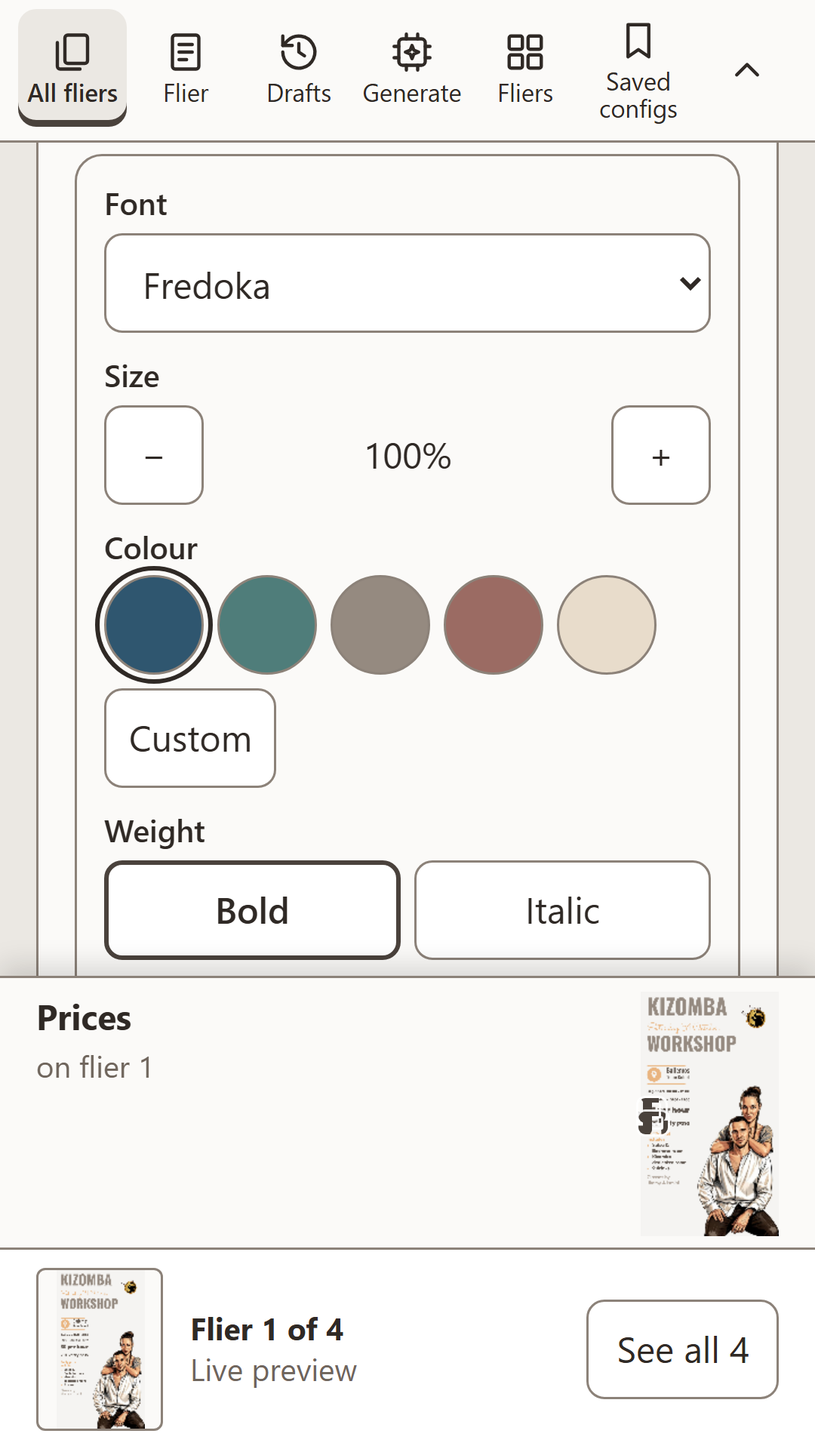
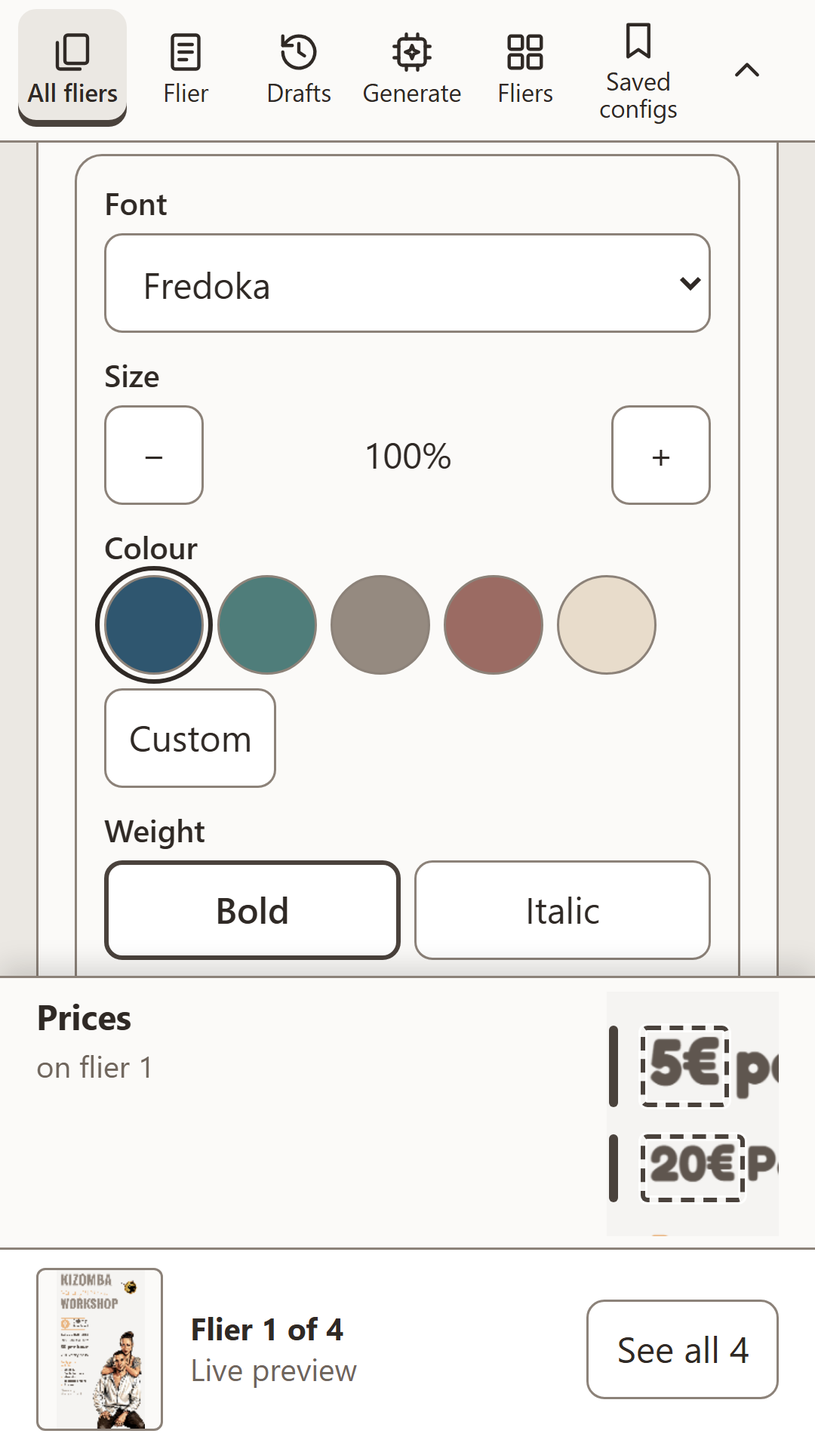
docs(FLIER-2 "Flier Studio follow-ups"): D34 round 3 for AC-44 "Fonts by text role" + AC-45 "Highlight on hover/focus": A peek crops to the outlined text, B and C withdrawn after critic r2

Changed region(s): [[0.7333, 0.6875, 0.9778, 0.875]]

diff --git a/docs/design/FLIER-2-AC44-45/index.html b/docs/design/FLIER-2-AC44-45/index.html
@@ -117,30 +117,32 @@ td, th { border-top: 1px solid var(--line); padding: 6px 8px; text-align: left; 
 </head>
 <body>
 <main>
-<p class="banner" data-testid="critic-banner">Critic pending &mdash; do not pick</p>
 <h1>FLIER-2 "Flier Studio follow-ups": Fonts by text role (AC-44) and highlight on hover/focus (AC-45)</h1>
 <p class="meta">Live build live with each option added to the real All fliers card and outlines drawn from the real flier renders (<code>fonts.ts</code>). Galaxy S5 360x640 and Desktop Chrome 1280x800, light and dark; fresh visitor, default Kizomba preset, 4 fliers. Before and after use the same steps and anchors.</p>
 <p>Highlight (AC-45), same in all three: pointing at or keyboard-focusing any role control outlines that text on every flier with a 2 px dashed accent box (4 px padding, light halo) and a slim accent bar in the poster&rsquo;s left margin; no tag sits on the poster, the role name is the control you are on. Leaving clears it. On a phone the fliers are off screen, so a tap docks a 120 px strip above the flier bar for 2 s: role name on the left, flier 1 with the outline on the right. Outlines sit over the preview only, never in a PNG; the same outline is wired to the per-field Style controls (AC-40) when option B ships. Matching is by role: each drawn line is keyed to the flier field it comes from (title, venue.n, schedule.n.label/time, prices.n.amount/label, includes, footer), whole line, case-sensitive; 0 lines claimed by two roles in every frame (result.json <code>conflicts</code>). The build reads per-role boxes from poster-render (a <code>lineBoxes</code> keyed by line, added to the render report), not text.</p>
 <p>All three keep the Fonts picker (now the starting typefaces) and every other row of the card where it is; the editor is the AC-40 Style panel minus "Apply to" (always every flier here), with "A flier&rsquo;s own Style still wins."</p>
 <article data-option="A" data-inventory="41/41" data-aligned="pass" data-result="result.json">
 <h2>A &middot; Role list, open one</h2>
-<p class="meta"><b>Inventory:</b> 41/41 &middot; new items shown 3/3 &middot; aligned: pass &middot; text fit: pass &middot; 44 px targets &middot; no sideways scroll &middot; outline boxes seen in 8 of 8 highlight frames</p>
+<p class="meta"><b>Inventory:</b> 41/41 &middot; new items shown 3/3 &middot; aligned: pass &middot; text fit: pass &middot; 44 px targets &middot; no sideways scroll &middot; outline boxes seen in 8 of 8 highlight frames &middot; design-critic r2 PASS 4.13</p>
+<p><b>Inventory:</b> 41/41</p>
 <p>Under the Fonts picker, a "Text roles" list: 11 rows (Title ... Footer), each showing its current face and size. Tapping a row opens the same editor as the per-field Style panel (AC-40) right under it: Font, Size stepper, Colour swatches + Custom, Bold / Italic, Letter spacing, Reset to theme. One open at a time.</p>
 <p><b>Initial focus:</b> unchanged (the card opens where it does today); opening a role moves focus to its Font control.</p>
 <h3>Highlight: hover and open (1280 and 360, light and dark)</h3>
 <div class="states"><figure class="solo"><img src="A-1280-light-hover.png" alt="Option A at 1280 light: Pointing at Title: every title outlined" loading="lazy"><figcaption>A, 1280 light: Pointing at Title: every title outlined</figcaption></figure><figure class="solo"><img src="A-360-light-hover.png" alt="Option A at 360 light: Pointing at Title: every title outlined" loading="lazy"><figcaption>A, 360 light: Pointing at Title: every title outlined</figcaption></figure><figure class="solo"><img src="A-1280-dark-hover.png" alt="Option A at 1280 dark: Pointing at Title: every title outlined" loading="lazy"><figcaption>A, 1280 dark: Pointing at Title: every title outlined</figcaption></figure><figure class="solo"><img src="A-360-dark-hover.png" alt="Option A at 360 dark: Pointing at Title: every title outlined" loading="lazy"><figcaption>A, 360 dark: Pointing at Title: every title outlined</figcaption></figure><figure class="solo"><img src="A-1280-light-open.png" alt="Option A at 1280 light: Prices editor open, prices outlined" loading="lazy"><figcaption>A, 1280 light: Prices editor open, prices outlined</figcaption></figure><figure class="solo"><img src="A-360-light-open.png" alt="Option A at 360 light: Prices editor open, prices outlined" loading="lazy"><figcaption>A, 360 light: Prices editor open, prices outlined</figcaption></figure><figure class="solo"><img src="A-1280-dark-open.png" alt="Option A at 1280 dark: Prices editor open, prices outlined" loading="lazy"><figcaption>A, 1280 dark: Prices editor open, prices outlined</figcaption></figure><figure class="solo"><img src="A-360-dark-open.png" alt="Option A at 360 dark: Prices editor open, prices outlined" loading="lazy"><figcaption>A, 360 dark: Prices editor open, prices outlined</figcaption></figure></div>
 <h3>Fonts row and what follows it</h3><div class="pair"><figure data-visual="before"><img src="before-1280-light-fonts.png" alt="Before at 1280 light: Fonts row and what follows it" loading="lazy"><figcaption>Before (live), 1280 light</figcaption></figure><figure data-visual="after"><img src="A-1280-light-fonts.png" alt="Option A at 1280 light: Fonts row and what follows it" loading="lazy"><figcaption>After A, 1280 light</figcaption></figure></div><h3>Fonts row at 360</h3><div class="pair phone"><figure data-visual="before"><img src="before-360-light-fonts.png" alt="Before at 360 light: Fonts row at 360" loading="lazy"><figcaption>Before (live), 360 light</figcaption></figure><figure data-visual="after"><img src="A-360-light-fonts.png" alt="Option A at 360 light: Fonts row at 360" loading="lazy"><figcaption>After A, 360 light</figcaption></figure></div><h3>Top of the All fliers card</h3><div class="pair"><figure data-visual="before"><img src="before-1280-light-card.png" alt="Before at 1280 light: Top of the All fliers card" loading="lazy"><figcaption>Before (live), 1280 light</figcaption></figure><figure data-visual="after"><img src="A-1280-light-card.png" alt="Option A at 1280 light: Top of the All fliers card" loading="lazy"><figcaption>After A, 1280 light</figcaption></figure></div><h3>Top of the card at 360</h3><div class="pair phone"><figure data-visual="before"><img src="before-360-light-card.png" alt="Before at 360 light: Top of the card at 360" loading="lazy"><figcaption>Before (live), 360 light</figcaption></figure><figure data-visual="after"><img src="A-360-light-card.png" alt="Option A at 360 light: Top of the card at 360" loading="lazy"><figcaption>After A, 360 light</figcaption></figure></div><h3>End of the card: Replace text, Add flier</h3><div class="pair"><figure data-visual="before"><img src="before-1280-light-card-end.png" alt="Before at 1280 light: End of the card: Replace text, Add flier" loading="lazy"><figcaption>Before (live), 1280 light</figcaption></figure><figure data-visual="after"><img src="A-1280-light-card-end.png" alt="Option A at 1280 light: End of the card: Replace text, Add flier" loading="lazy"><figcaption>After A, 1280 light</figcaption></figure></div><h3>End of the card at 360</h3><div class="pair phone"><figure data-visual="before"><img src="before-360-light-card-end.png" alt="Before at 360 light: End of the card at 360" loading="lazy"><figcaption>Before (live), 360 light</figcaption></figure><figure data-visual="after"><img src="A-360-light-card-end.png" alt="Option A at 360 light: End of the card at 360" loading="lazy"><figcaption>After A, 360 light</figcaption></figure></div><h3>Replace text with "Kizomba" typed: count, ticked list, Apply</h3><div class="pair"><figure data-visual="before"><img src="before-1280-light-card-end-typed.png" alt="Before at 1280 light: Replace text with "Kizomba" typed: count, ticked list, Apply" loading="lazy"><figcaption>Before (live), 1280 light</figcaption></figure><figure data-visual="after"><img src="A-1280-light-card-end-typed.png" alt="Option A at 1280 light: Replace text with "Kizomba" typed: count, ticked list, Apply" loading="lazy"><figcaption>After A, 1280 light</figcaption></figure></div><h3>Replace text typed at 360</h3><div class="pair phone"><figure data-visual="before"><img src="before-360-light-card-end-typed.png" alt="Before at 360 light: Replace text typed at 360" loading="lazy"><figcaption>Before (live), 360 light</figcaption></figure><figure data-visual="after"><img src="A-360-light-card-end-typed.png" alt="Option A at 360 light: Replace text typed at 360" loading="lazy"><figcaption>After A, 360 light</figcaption></figure></div><h3>All fliers card folded</h3><div class="pair"><figure data-visual="before"><img src="before-1280-light-card-folded.png" alt="Before at 1280 light: All fliers card folded" loading="lazy"><figcaption>Before (live), 1280 light</figcaption></figure><figure data-visual="after"><img src="A-1280-light-card-folded.png" alt="Option A at 1280 light: All fliers card folded" loading="lazy"><figcaption>After A, 1280 light</figcaption></figure></div><h3>Card folded at 360</h3><div class="pair phone"><figure data-visual="before"><img src="before-360-light-card-folded.png" alt="Before at 360 light: Card folded at 360" loading="lazy"><figcaption>Before (live), 360 light</figcaption></figure><figure data-visual="after"><img src="A-360-light-card-folded.png" alt="Option A at 360 light: Card folded at 360" loading="lazy"><figcaption>After A, 360 light</figcaption></figure></div><h3>The fliers</h3><div class="pair"><figure data-visual="before"><img src="before-1280-light-fliers.png" alt="Before at 1280 light: The fliers" loading="lazy"><figcaption>Before (live), 1280 light</figcaption></figure><figure data-visual="after"><img src="A-1280-light-fliers.png" alt="Option A at 1280 light: The fliers" loading="lazy"><figcaption>After A, 1280 light</figcaption></figure></div><h3>Dark, Fonts row</h3><div class="pair"><figure data-visual="before"><img src="before-1280-dark-fonts.png" alt="Before at 1280 dark: Dark, Fonts row" loading="lazy"><figcaption>Before (live), 1280 dark</figcaption></figure><figure data-visual="after"><img src="A-1280-dark-fonts.png" alt="Option A at 1280 dark: Dark, Fonts row" loading="lazy"><figcaption>After A, 1280 dark</figcaption></figure></div><h3>Dark, Fonts row at 360</h3><div class="pair phone"><figure data-visual="before"><img src="before-360-dark-fonts.png" alt="Before at 360 dark: Dark, Fonts row at 360" loading="lazy"><figcaption>Before (live), 360 dark</figcaption></figure><figure data-visual="after"><img src="A-360-dark-fonts.png" alt="Option A at 360 dark: Dark, Fonts row at 360" loading="lazy"><figcaption>After A, 360 dark</figcaption></figure></div>
-</article><article data-option="B" data-inventory="41/41" data-aligned="pass" data-result="result.json">
+</article><article class="withdrawn" data-option="B" data-inventory="41/41" data-aligned="pass" data-result="result.json">
 <h2>B &middot; Role chips, one editor</h2>
-<p class="meta"><b>Inventory:</b> 41/41 &middot; new items shown 3/3 &middot; aligned: pass &middot; text fit: pass &middot; 44 px targets &middot; no sideways scroll &middot; outline boxes seen in 8 of 8 highlight frames</p>
+<p class="verdict">Withdrawn, not pickable: design-critic r2 REDO 3.88. The chips wrap to 5 rows at 360 and break the AC-40 row pattern.</p>
+<p><b>Inventory:</b> 41/41</p>
 <p>Under the Fonts picker, the 11 roles as chips that wrap; the pressed chip drives one editor below (same controls as the Style panel, headed "Title, every flier"). Shortest card; the editor never moves.</p>
 <p><b>Initial focus:</b> unchanged (the card opens where it does today); opening a role moves focus to its Font control.</p>
 <h3>Highlight: hover and open (1280 and 360, light and dark)</h3>
 <div class="states"><figure class="solo"><img src="B-1280-light-hover.png" alt="Option B at 1280 light: Pointing at Title: every title outlined" loading="lazy"><figcaption>B, 1280 light: Pointing at Title: every title outlined</figcaption></figure><figure class="solo"><img src="B-360-light-hover.png" alt="Option B at 360 light: Pointing at Title: every title outlined" loading="lazy"><figcaption>B, 360 light: Pointing at Title: every title outlined</figcaption></figure><figure class="solo"><img src="B-1280-dark-hover.png" alt="Option B at 1280 dark: Pointing at Title: every title outlined" loading="lazy"><figcaption>B, 1280 dark: Pointing at Title: every title outlined</figcaption></figure><figure class="solo"><img src="B-360-dark-hover.png" alt="Option B at 360 dark: Pointing at Title: every title outlined" loading="lazy"><figcaption>B, 360 dark: Pointing at Title: every title outlined</figcaption></figure><figure class="solo"><img src="B-1280-light-open.png" alt="Option B at 1280 light: Prices editor open, prices outlined" loading="lazy"><figcaption>B, 1280 light: Prices editor open, prices outlined</figcaption></figure><figure class="solo"><img src="B-360-light-open.png" alt="Option B at 360 light: Prices editor open, prices outlined" loading="lazy"><figcaption>B, 360 light: Prices editor open, prices outlined</figcaption></figure><figure class="solo"><img src="B-1280-dark-open.png" alt="Option B at 1280 dark: Prices editor open, prices outlined" loading="lazy"><figcaption>B, 1280 dark: Prices editor open, prices outlined</figcaption></figure><figure class="solo"><img src="B-360-dark-open.png" alt="Option B at 360 dark: Prices editor open, prices outlined" loading="lazy"><figcaption>B, 360 dark: Prices editor open, prices outlined</figcaption></figure></div>
 <h3>Fonts row and what follows it</h3><div class="pair"><figure data-visual="before"><img src="before-1280-light-fonts.png" alt="Before at 1280 light: Fonts row and what follows it" loading="lazy"><figcaption>Before (live), 1280 light</figcaption></figure><figure data-visual="after"><img src="B-1280-light-fonts.png" alt="Option B at 1280 light: Fonts row and what follows it" loading="lazy"><figcaption>After B, 1280 light</figcaption></figure></div><h3>Fonts row at 360</h3><div class="pair phone"><figure data-visual="before"><img src="before-360-light-fonts.png" alt="Before at 360 light: Fonts row at 360" loading="lazy"><figcaption>Before (live), 360 light</figcaption></figure><figure data-visual="after"><img src="B-360-light-fonts.png" alt="Option B at 360 light: Fonts row at 360" loading="lazy"><figcaption>After B, 360 light</figcaption></figure></div><h3>Top of the All fliers card</h3><div class="pair"><figure data-visual="before"><img src="before-1280-light-card.png" alt="Before at 1280 light: Top of the All fliers card" loading="lazy"><figcaption>Before (live), 1280 light</figcaption></figure><figure data-visual="after"><img src="B-1280-light-card.png" alt="Option B at 1280 light: Top of the All fliers card" loading="lazy"><figcaption>After B, 1280 light</figcaption></figure></div><h3>Top of the card at 360</h3><div class="pair phone"><figure data-visual="before"><img src="before-360-light-card.png" alt="Before at 360 light: Top of the card at 360" loading="lazy"><figcaption>Before (live), 360 light</figcaption></figure><figure data-visual="after"><img src="B-360-light-card.png" alt="Option B at 360 light: Top of the card at 360" loading="lazy"><figcaption>After B, 360 light</figcaption></figure></div><h3>End of the card: Replace text, Add flier</h3><div class="pair"><figure data-visual="before"><img src="before-1280-light-card-end.png" alt="Before at 1280 light: End of the card: Replace text, Add flier" loading="lazy"><figcaption>Before (live), 1280 light</figcaption></figure><figure data-visual="after"><img src="B-1280-light-card-end.png" alt="Option B at 1280 light: End of the card: Replace text, Add flier" loading="lazy"><figcaption>After B, 1280 light</figcaption></figure></div><h3>End of the card at 360</h3><div class="pair phone"><figure data-visual="before"><img src="before-360-light-card-end.png" alt="Before at 360 light: End of the card at 360" loading="lazy"><figcaption>Before (live), 360 light</figcaption></figure><figure data-visual="after"><img src="B-360-light-card-end.png" alt="Option B at 360 light: End of the card at 360" loading="lazy"><figcaption>After B, 360 light</figcaption></figure></div><h3>Replace text with "Kizomba" typed: count, ticked list, Apply</h3><div class="pair"><figure data-visual="before"><img src="before-1280-light-card-end-typed.png" alt="Before at 1280 light: Replace text with "Kizomba" typed: count, ticked list, Apply" loading="lazy"><figcaption>Before (live), 1280 light</figcaption></figure><figure data-visual="after"><img src="B-1280-light-card-end-typed.png" alt="Option B at 1280 light: Replace text with "Kizomba" typed: count, ticked list, Apply" loading="lazy"><figcaption>After B, 1280 light</figcaption></figure></div><h3>Replace text typed at 360</h3><div class="pair phone"><figure data-visual="before"><img src="before-360-light-card-end-typed.png" alt="Before at 360 light: Replace text typed at 360" loading="lazy"><figcaption>Before (live), 360 light</figcaption></figure><figure data-visual="after"><img src="B-360-light-card-end-typed.png" alt="Option B at 360 light: Replace text typed at 360" loading="lazy"><figcaption>After B, 360 light</figcaption></figure></div><h3>All fliers card folded</h3><div class="pair"><figure data-visual="before"><img src="before-1280-light-card-folded.png" alt="Before at 1280 light: All fliers card folded" loading="lazy"><figcaption>Before (live), 1280 light</figcaption></figure><figure data-visual="after"><img src="B-1280-light-card-folded.png" alt="Option B at 1280 light: All fliers card folded" loading="lazy"><figcaption>After B, 1280 light</figcaption></figure></div><h3>Card folded at 360</h3><div class="pair phone"><figure data-visual="before"><img src="before-360-light-card-folded.png" alt="Before at 360 light: Card folded at 360" loading="lazy"><figcaption>Before (live), 360 light</figcaption></figure><figure data-visual="after"><img src="B-360-light-card-folded.png" alt="Option B at 360 light: Card folded at 360" loading="lazy"><figcaption>After B, 360 light</figcaption></figure></div><h3>The fliers</h3><div class="pair"><figure data-visual="before"><img src="before-1280-light-fliers.png" alt="Before at 1280 light: The fliers" loading="lazy"><figcaption>Before (live), 1280 light</figcaption></figure><figure data-visual="after"><img src="B-1280-light-fliers.png" alt="Option B at 1280 light: The fliers" loading="lazy"><figcaption>After B, 1280 light</figcaption></figure></div><h3>Dark, Fonts row</h3><div class="pair"><figure data-visual="before"><img src="before-1280-dark-fonts.png" alt="Before at 1280 dark: Dark, Fonts row" loading="lazy"><figcaption>Before (live), 1280 dark</figcaption></figure><figure data-visual="after"><img src="B-1280-dark-fonts.png" alt="Option B at 1280 dark: Dark, Fonts row" loading="lazy"><figcaption>After B, 1280 dark</figcaption></figure></div><h3>Dark, Fonts row at 360</h3><div class="pair phone"><figure data-visual="before"><img src="before-360-dark-fonts.png" alt="Before at 360 dark: Dark, Fonts row at 360" loading="lazy"><figcaption>Before (live), 360 dark</figcaption></figure><figure data-visual="after"><img src="B-360-dark-fonts.png" alt="Option B at 360 dark: Dark, Fonts row at 360" loading="lazy"><figcaption>After B, 360 dark</figcaption></figure></div>
-</article><article data-option="C" data-inventory="41/41" data-aligned="pass" data-result="result.json">
+</article><article class="withdrawn" data-option="C" data-inventory="41/41" data-aligned="pass" data-result="result.json">
 <h2>C &middot; Type sheet, every role visible</h2>
-<p class="meta"><b>Inventory:</b> 41/41 &middot; new items shown 3/3 &middot; aligned: pass &middot; text fit: pass &middot; 44 px targets &middot; no sideways scroll &middot; outline boxes seen in 8 of 8 highlight frames</p>
+<p class="verdict">Withdrawn, not pickable: design-critic r2 hard fail. With Prices open at 360 the &ldquo;+&rdquo; sits off screen over &ldquo;100%&rdquo; and &ldquo;See all 4&rdquo; is clipped.</p>
+<p><b>Inventory:</b> 41/41</p>
 <p>Under the Fonts picker, every role is a row with its Font and Size always on show; "More" on a row opens Colour, Bold / Italic, Letter spacing and Reset to theme under it. Longest card, but face and size of every role are visible without a tap.</p>
 <p><b>Initial focus:</b> unchanged (the card opens where it does today); opening a role moves focus to its Font control.</p>
 <h3>Highlight: hover and open (1280 and 360, light and dark)</h3>
@@ -150,11 +152,11 @@ td, th { border-top: 1px solid var(--line); padding: 6px 8px; text-align: left; 
 <h2>Information inventory (role Visitor, 41 rows + 3 new)</h2>
 <table><tr><th>#</th><th>Item</th><th>Role</th><th>Source</th><th>360</th><th>1280</th><th>A / B / C</th></tr><tr><td>1</td><td>add-flier</td><td>Visitor</td><td>src/ui/allFliersPanel.ts:79</td><td>seen</td><td>seen</td><td>kept</td></tr><tr><td>2</td><td>all-ai-line</td><td>Visitor</td><td>src/ui/allFliersPanel.ts:43</td><td>seen</td><td>seen</td><td>kept</td></tr><tr><td>3</td><td>all-custom-layouts</td><td>Visitor</td><td>src/ui/allFliersPanel.ts:69</td><td>seen</td><td>seen</td><td>kept</td></tr><tr><td>4</td><td>all-fliers</td><td>Visitor</td><td>src/ui/collapsible.ts:65</td><td>seen</td><td>seen</td><td>kept</td></tr><tr><td>5</td><td>all-fliers-row</td><td>Visitor</td><td>src/ui/allFliersPanel.ts:75</td><td>seen</td><td>seen</td><td>kept</td></tr><tr><td>6</td><td>all-fliers-toggle</td><td>Visitor</td><td>live DOM</td><td>seen</td><td>seen</td><td>kept</td></tr><tr><td>7</td><td>all-fonts</td><td>Visitor</td><td>src/ui/allFliersPanel.ts:31 (allSettings.ts:22)</td><td>seen</td><td>seen</td><td>kept</td></tr><tr><td>8</td><td>all-fonts-row</td><td>Visitor</td><td>src/ui/allFliersPanel.ts:37</td><td>seen</td><td>seen</td><td>kept</td></tr><tr><td>9</td><td>all-layout</td><td>Visitor</td><td>src/ui/allFliersPanel.ts:31 (allSettings.ts:20)</td><td>seen</td><td>seen</td><td>kept</td></tr><tr><td>10</td><td>all-layout-row</td><td>Visitor</td><td>src/ui/allFliersPanel.ts:37</td><td>seen</td><td>seen</td><td>kept</td></tr><tr><td>11</td><td>all-palette</td><td>Visitor</td><td>src/ui/allFliersPanel.ts:31 (allSettings.ts:21)</td><td>seen</td><td>seen</td><td>kept</td></tr><tr><td>12</td><td>all-palette-row</td><td>Visitor</td><td>src/ui/allFliersPanel.ts:37</td><td>seen</td><td>seen</td><td>kept</td></tr><tr><td>13</td><td>Card folded (fold state, remembered)</td><td>Visitor</td><td>src/ui/collapsible.ts:64</td><td>seen</td><td>seen</td><td>kept</td></tr><tr><td>14</td><td>mini-highlighted</td><td>Visitor</td><td>src/ui/miniPreview.ts:58</td><td>seen</td><td>not in a 360 frame</td><td>kept</td></tr><tr><td>15</td><td>mini-open</td><td>Visitor</td><td>src/ui/miniPreview.ts:58</td><td>seen</td><td>not in a 360 frame</td><td>kept</td></tr><tr><td>16</td><td>mini-position</td><td>Visitor</td><td>src/ui/miniPreview.ts:58</td><td>seen</td><td>not in a 360 frame</td><td>kept</td></tr><tr><td>17</td><td>mini-preview</td><td>Visitor</td><td>src/ui/miniPreview.ts:65</td><td>seen</td><td>not in a 360 frame</td><td>kept</td></tr><tr><td>18</td><td>mini-see-all</td><td>Visitor</td><td>src/ui/miniPreview.ts:58</td><td>seen</td><td>not in a 360 frame</td><td>kept</td></tr><tr><td>19</td><td>mini-see-marks</td><td>Visitor</td><td>src/ui/miniPreview.ts:58</td><td>seen</td><td>not in a 360 frame</td><td>kept</td></tr><tr><td>20</td><td>nav-all</td><td>Visitor</td><td>src/ui/sectionNav.ts:41</td><td>seen</td><td>seen</td><td>kept</td></tr><tr><td>21</td><td>pick-scope</td><td>Visitor</td><td>src/ui/allFliersPanel.ts:47</td><td>seen</td><td>seen</td><td>kept</td></tr><tr><td>22</td><td>pick-theme</td><td>Visitor</td><td>src/ui/themeControls.ts:12</td><td>seen</td><td>seen</td><td>kept</td></tr><tr><td>23</td><td>preview-1</td><td>Visitor</td><td>src/ui/previews.ts:43</td><td>seen</td><td>seen</td><td>kept</td></tr><tr><td>24</td><td>preview-2</td><td>Visitor</td><td>src/ui/previews.ts:43</td><td>seen</td><td>seen</td><td>kept</td></tr><tr><td>25</td><td>preview-3</td><td>Visitor</td><td>src/ui/previews.ts:43</td><td>seen</td><td>seen</td><td>kept</td></tr><tr><td>26</td><td>preview-4</td><td>Visitor</td><td>src/ui/previews.ts:43</td><td>seen</td><td>seen</td><td>kept</td></tr><tr><td>27</td><td>preview-grid</td><td>Visitor</td><td>src/main.ts:44</td><td>seen</td><td>seen</td><td>kept</td></tr><tr><td>28</td><td>replace-apply</td><td>Visitor</td><td>src/ui/replacePanel.ts:101</td><td>seen</td><td>seen</td><td>kept</td></tr><tr><td>29</td><td>replace-bar</td><td>Visitor</td><td>src/ui/replacePanel.ts:103</td><td>seen</td><td>seen</td><td>kept</td></tr><tr><td>30</td><td>replace-count</td><td>Visitor</td><td>src/ui/replacePanel.ts:99</td><td>not in a 360 frame</td><td>seen</td><td>kept</td></tr><tr><td>31</td><td>replace-find</td><td>Visitor</td><td>src/ui/replacePanel.ts:96</td><td>seen</td><td>seen</td><td>kept</td></tr><tr><td>32</td><td>replace-matches</td><td>Visitor</td><td>src/ui/replacePanel.ts:100</td><td>seen</td><td>seen</td><td>kept</td></tr><tr><td>33</td><td>replace-text</td><td>Visitor</td><td>src/ui/replacePanel.ts:126</td><td>seen</td><td>seen</td><td>kept</td></tr><tr><td>34</td><td>replace-with</td><td>Visitor</td><td>src/ui/replacePanel.ts:97</td><td>seen</td><td>seen</td><td>kept</td></tr><tr><td>35</td><td>replace-word</td><td>Visitor</td><td>src/ui/replacePanel.ts:98</td><td>seen</td><td>seen</td><td>kept</td></tr><tr><td>36</td><td>shared-fields</td><td>Visitor</td><td>src/ui/allFliersPanel.ts:50</td><td>seen</td><td>seen</td><td>kept</td></tr><tr><td>37</td><td>shared-state</td><td>Visitor</td><td>src/ui/allFliersPanel.ts:51</td><td>seen</td><td>seen</td><td>kept</td></tr><tr><td>38</td><td>Heading "Look of every flier"</td><td>Visitor</td><td>src/ui/allFliersPanel.ts:76</td><td>seen</td><td>seen</td><td>kept</td></tr><tr><td>39</td><td>Card note "Every setting here changes all n fliers"</td><td>Visitor</td><td>src/ui/allFliersPanel.ts:72</td><td>seen</td><td>seen</td><td>kept</td></tr><tr><td>40</td><td>Replace hint (no word typed)</td><td>Visitor</td><td>src/ui/replacePanel.ts:102</td><td>seen</td><td>seen</td><td>kept</td></tr><tr><td>41</td><td>Heading "Shared text"</td><td>Visitor</td><td>src/ui/allFliersPanel.ts:59</td><td>seen</td><td>seen</td><td>kept</td></tr><tr><td>+</td><td>Fonts by text role: 11 roles (AC-44)</td><td>Visitor</td><td>new, D34</td><td colspan=2>A / B / C</td><td>added</td></tr><tr><td>+</td><td>Role editor: face, size, colour (palette + Custom), weight/italic, letter spacing, Reset to theme (AC-44)</td><td>Visitor</td><td>new, D34</td><td colspan=2>A / B / C</td><td>added</td></tr><tr><td>+</td><td>Outline of the poster text on hover/focus/tap (AC-45)</td><td>Visitor</td><td>new, D34</td><td colspan=2>A / B / C</td><td>added</td></tr></table>
 <div class="qpics"><img src="A-1280-light-hover.png" alt="Option A hover at 1280" loading="lazy"><img src="B-1280-light-hover.png" alt="Option B hover at 1280" loading="lazy"><img src="C-1280-light-hover.png" alt="Option C hover at 1280" loading="lazy"></div>
+<p class="meta">B and C are withdrawn by design-critic r2 (B REDO 3.88, C hard fail) and are not offered. A passed at 4.13.</p>
 <div class="q" data-qid="q1"><p class="qn"><span class="qi">Q1</span> Which Fonts card?</p>
 <ul class="opts">
-<li data-letter="A"><span class="lt">A</span><span>Role list, open one</span></li>
-<li data-letter="B"><span class="lt">B</span><span>Role chips, one editor</span></li>
-<li data-letter="C"><span class="lt">C</span><span>Type sheet, every role visible</span></li>
+<li data-letter="A"><span class="lt">A</span><span>Role list, open one (critic PASS 4.13)</span></li>
+<li data-letter="B"><span class="lt">B</span><span>Not yet: change A first (say what in the note)</span></li>
 </ul></div>
 </main>
 </body>

diff --git a/docs/design/FLIER-2-AC44-45/fonts.ts b/docs/design/FLIER-2-AC44-45/fonts.ts
@@ -105,15 +105,18 @@ export function fontTools(side: string): void {
     const bar = q('mini-preview'); const src = document.querySelector<HTMLCanvasElement>('[data-testid="preview-1"] canvas');
     if (bar && src && bar.getBoundingClientRect().height > 1) {
       const peek = mk('div', 'mk-peek'); peek.append(mk('b', '', label ?? ''), mk('small', '', 'on flier 1'));
-      const cv = document.createElement('canvas'); const ht = 108; const wd = Math.round((ht * src.width) / src.height);
-      cv.width = wd * 2; cv.height = ht * 2; cv.style.width = `${String(wd)}px`; cv.style.height = `${String(ht)}px`;
+      const own = runsOf(role, src); const m = 0.04 * src.width;
+      const x0 = own.length ? Math.max(0, Math.min(...own.map((o) => o.x0)) - m) : 0; const y0 = own.length ? Math.max(0, Math.min(...own.map((o) => o.y0)) - m) : 0;
+      const x1 = own.length ? Math.min(src.width, Math.max(...own.map((o) => o.x1)) + m) : src.width; const y1 = own.length ? Math.min(src.height, Math.max(...own.map((o) => o.y1)) + m) : src.height;
+      const k = Math.min(108 / (y1 - y0), (innerWidth - 160) / (x1 - x0)); const wd = Math.round((x1 - x0) * k); const ht = Math.round((y1 - y0) * k);
+      const cv = document.createElement('canvas'); cv.width = wd * 2; cv.height = ht * 2; cv.style.width = `${String(wd)}px`; cv.style.height = `${String(ht)}px`;
       peek.style.bottom = `${String(innerHeight - bar.getBoundingClientRect().top)}px`; peek.append(cv); document.body.append(peek);
-      cv.getContext('2d')?.drawImage(src, 0, 0, cv.width, cv.height);
+      cv.getContext('2d')?.drawImage(src, x0, y0, x1 - x0, y1 - y0, 0, 0, cv.width, cv.height);
     }
     for (const cv of document.querySelectorAll<HTMLCanvasElement>('[data-testid^="preview-"] canvas, .mk-peek canvas')) {
       const r = cv.getBoundingClientRect(); if (r.width < 2) continue;
       const sx = r.width / cv.width; const sy = r.height / cv.height;
-      for (const run of runsOf(role, cv)) {
+      for (const run of runsOf(role, cv).filter((u) => u.x1 > 0 && u.y1 > 0 && u.x0 < cv.width && u.y0 < cv.height)) {
         const pad = 4; const x = r.left + scrollX + run.x0 * sx - pad; const y = r.top + scrollY + run.y0 * sy - pad; const h = (run.y1 - run.y0) * sy + 2 * pad;
         const box = mk('div', 'mk-hi'); box.dataset.role = role;
         Object.assign(box.style, { left: `${String(x)}px`, top: `${String(y)}px`, width: `${String((run.x1 - run.x0) * sx + 2 * pad)}px`, height: `${String(h)}px` });

diff --git a/docs/design/FLIER-2-AC44-45/build_page.py b/docs/design/FLIER-2-AC44-45/build_page.py
@@ -31,13 +31,20 @@ def pair(o, d, s, shot, alt):
             f'<figcaption>After {o}, {d} {s}</figcaption></figure></div>')
 
 
+VERDICT = {'A': None, 'B': 'Withdrawn, not pickable: design-critic r2 REDO 3.88. The chips wrap to 5 rows at 360 and break the AC-40 row pattern.', 'C': 'Withdrawn, not pickable: design-critic r2 hard fail. With Prices open at 360 the &ldquo;+&rdquo; sits off screen over &ldquo;100%&rdquo; and &ldquo;See all 4&rdquo; is clipped.'}
+
+
 def article(o, title, desc):
     r = R['options'][o]
+    v = VERDICT[o]
     figs = ''.join(f'<h3>{cap}</h3>{pair(o, d, s, sh, cap)}' for d, s, sh, cap in PAIRS)
     states = ''.join(f'<figure class="solo"><img src="{o}-{d}-{sc}-{st}.png" alt="Option {o} at {d} {sc}: {cap}" loading="lazy"><figcaption>{o}, {d} {sc}: {cap}</figcaption></figure>' for st, cap in STATES for sc in ('light', 'dark') for d in ('1280', '360'))
-    return f'''<article data-option="{o}" data-inventory="{r['inventory']}" data-aligned="pass" data-result="result.json">
+    meta = f'<p class="verdict">{v}</p>' if v else f'<p class="meta"><b>Inventory:</b> {r["inventory"]} &middot; new items shown {r["added"]} &middot; aligned: pass &middot; text fit: pass &middot; 44 px targets &middot; no sideways scroll &middot; outline boxes seen in {len(r["highlight"])} of 8 highlight frames &middot; design-critic r2 PASS 4.13</p>'
+    cls = ' class="withdrawn"' if v else ''
+    return f'''<article{cls} data-option="{o}" data-inventory="{r['inventory']}" data-aligned="pass" data-result="result.json">
 <h2>{o} &middot; {title}</h2>
-<p class="meta"><b>Inventory:</b> {r['inventory']} &middot; new items shown {r['added']} &middot; aligned: pass &middot; text fit: pass &middot; 44 px targets &middot; no sideways scroll &middot; outline boxes seen in {len(r['highlight'])} of 8 highlight frames</p>
+{meta}
+<p><b>Inventory:</b> {r['inventory']}</p>
 <p>{desc}</p>
 <p><b>Initial focus:</b> unchanged (the card opens where it does today); opening a role moves focus to its Font control.</p>
 <h3>Highlight: hover and open (1280 and 360, light and dark)</h3>
@@ -62,7 +69,6 @@ body = f'''
 </head>
 <body>
 <main>
-<p class="banner" data-testid="critic-banner">Critic pending &mdash; do not pick</p>
 <h1>FLIER-2 "Flier Studio follow-ups": Fonts by text role (AC-44) and highlight on hover/focus (AC-45)</h1>
 <p class="meta">Live build {R['beforeBuild']} with each option added to the real All fliers card and outlines drawn from the real flier renders (<code>fonts.ts</code>). Galaxy S5 360x640 and Desktop Chrome 1280x800, light and dark; fresh visitor, default Kizomba preset, 4 fliers. Before and after use the same steps and anchors.</p>
 <p>{HL}</p>
@@ -71,11 +77,11 @@ body = f'''
 <h2>Information inventory (role Visitor, {n} rows + {len(R['newItems'])} new)</h2>
 <table><tr><th>#</th><th>Item</th><th>Role</th><th>Source</th><th>360</th><th>1280</th><th>A / B / C</th></tr>{rows}{new}</table>
 <div class="qpics"><img src="A-1280-light-hover.png" alt="Option A hover at 1280" loading="lazy"><img src="B-1280-light-hover.png" alt="Option B hover at 1280" loading="lazy"><img src="C-1280-light-hover.png" alt="Option C hover at 1280" loading="lazy"></div>
+<p class="meta">B and C are withdrawn by design-critic r2 (B REDO 3.88, C hard fail) and are not offered. A passed at 4.13.</p>
 <div class="q" data-qid="q1"><p class="qn"><span class="qi">Q1</span> Which Fonts card?</p>
 <ul class="opts">
-<li data-letter="A"><span class="lt">A</span><span>Role list, open one</span></li>
-<li data-letter="B"><span class="lt">B</span><span>Role chips, one editor</span></li>
-<li data-letter="C"><span class="lt">C</span><span>Type sheet, every role visible</span></li>
+<li data-letter="A"><span class="lt">A</span><span>Role list, open one (critic PASS 4.13)</span></li>
+<li data-letter="B"><span class="lt">B</span><span>Not yet: change A first (say what in the note)</span></li>
 </ul></div>
 </main>
 </body>

diff --git a/docs/design/FLIER-2-AC44-45/critique-2026-10-29-r2.md b/docs/design/FLIER-2-AC44-45/critique-2026-10-29-r2.md
@@ -1,0 +1,46 @@
+# Critique r2: FLIER-2 "Flier Studio follow-ups" AC-44 "Fonts by text role" + AC-45 "Highlight on hover/focus" (D34)
+
+Critic: design-critic, 2026-10-29, round 2. Page https://claude.ai/artifact/Mgry8VEdyegd86rjV7GyQn v2; sources flier-studio origin/main 3b4a934 `docs/design/FLIER-2-AC44-45/`.
+Viewed: A-1280-light hover/open/card-end-typed, A/B/C-360-light-open, A-360-light-card-folded; result.json + frames/*.json parsed.
+
+## Hard fails
+| Check | A | B | C |
+|---|---|---|---|
+| Inventory (41 rows, all probed, visible-in-frame) | 41/41 true | 41/41 true | 41/41 true |
+| Form rows (1px) | pass | pass | pass |
+| Pair parity (42 pairs, records identical) | pass | pass | pass |
+| Text fit / sideways scroll at 360 | pass | pass | **FAIL** |
+
+**C hard fail: C-360-light-open.png.** With the Prices row open, the Font select stretches to ~242 CSS px (x 100-825 device) and pushes the Size stepper past the card and the viewport: the "+" button is cut at the right edge and covers "100%" (only the "1" shows); the flier bar's "See all 4" is cut too (x 835-1080+ vs 778-1030 in every other frame). The frame JSON says `hscroll: False, textFit: []`, the pixels say otherwise: the probe did not observe this state. Fix: in the open row keep the select at `flex: 1 1 0; min-width: 0` and the stepper `flex: none`, same as the closed rows in C-360-light-fonts (select 100-523).
+
+## Round-1 fixes: verified
+- Replace typed (8 matches, ticked list, Replace 8 ticked) and card folded pairs present; inventory now true.
+- Outline: no tag; 2 px dashed box + left-margin bar. Title box sits on KIZOMBA without hiding glyphs; the false positive on "Kizomba dedicated room" is gone; Prices boxes the amounts (5€/20€, flier 4 party-pass amounts) and no longer covers the Times lines.
+- **Field-level whole-line matching is adequate for the mockup**: every box lands on the right text in the frames I checked, no cross-role hits. For the build, `lineBoxes` keyed by role in the poster render is required (a field that holds two roles would outline both); log it as an AC-45 implementation note, not a design blocker.
+
+## Scores (1-5)
+| # | Criterion | A | B |
+|---|---|---|---|
+| 1 | Focal point | 4: open row is the focus, outline answers it on all 4 fliers | 4: editor under the chips, clear |
+| 2 | Portability | 4: role names are this poster's parts, "A flier's own Style still wins" | 4 |
+| 3 | Hierarchy/type/spacing | 4: rows match card rows, "Oswald · 100%" muted right | 3: 5 ragged chip rows at 360; pressed chip is only a thicker border; faces/sizes of other roles hidden |
+| 4 | Visual language | 4: no new colour, same chrome | 4 |
+| 5 | Taste ledger | 4: mirrors D29 pick B "One menu per row" (AC-40 Style), the consistency the brief asks for | 3: a chip pattern the ledger never chose; departs from the D29 row pattern |
+| 6 | No AI tells | 5 | 5 |
+| 7 | 360 + 1280 | 3: 360 peek strip shows a ~60 CSS px thumbnail, the outline is an unreadable blob, 2/3 of the strip empty | 3: same peek, plus the editor sits 5 chip rows below the chip you tapped |
+| 8 | Inventory | 5 (41/41) | 5 (41/41) |
+| | **Mean** | **4.13 PASS** | **3.88 REDO** |
+
+C: REDO (hard fail), not scored.
+
+**Rank:** 1 A. B and C are not ranked (REDO).
+
+## Top fixes
+- **A** (ship with): (1) 360 peek: crop the peek to the outlined region at 2x (the role's line box plus 24 px), full strip width, not the whole flier at 60 px. (2) Open frames record `focused: replace-find`; the page says opening a role moves focus to its Font control. Make the capture show that (FOCUS-1 "Every screen names its initial focus"). (3) Title row "Oswald · 100%" also shows "Theme" for roles still on the theme (Includes heading, Footer): keep that, and make it the same muted weight as the face/size text.
+- **B**: (1) pressed chip filled ink with paper text plus aria-pressed; (2) at 360 show the chips as one horizontal scroll row (44 px tall) so the editor sits right under it; (3) same peek fix as A.
+- **C**: (1) the flex fix above; (2) collapse each role to one line at 1280 (label, select, stepper, chevron) to halve the card's length; (3) same peek fix.
+
+## Banner
+Not removed. The page offers A, B and C in one pick, and B (REDO) and C (hard fail, "text fit: pass · no sideways scroll" printed on its card is false) would reach the owner. OPTION-GATE-1 "No option reaches the owner if it loses a field or misaligns a form row" and the critic rules keep REDO options off a pick page. Unbanner after the designer rebuilds the page with B and C withdrawn (or fixed and re-critiqued). Removing the banner would also mean editing `build_page.py`, a design file the critic does not edit.
+
+NOT COVERED: dark-mode frames not eyeballed; outline timing (100 ms, 2 s tap) not judged from stills; no real device; live build not driven; B/C 1280 hover frames not re-viewed this round (A only; result.json counts boxes for all).
